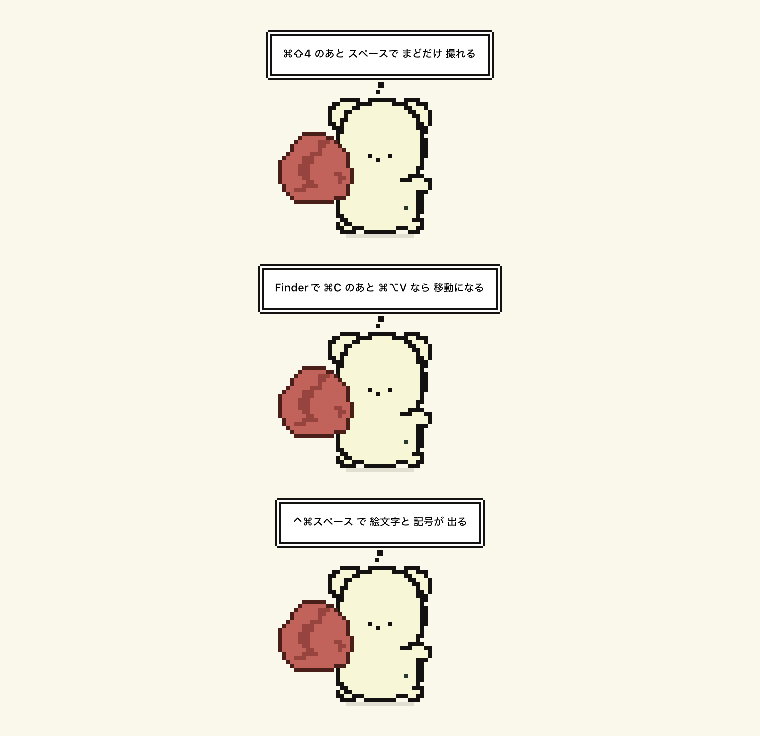
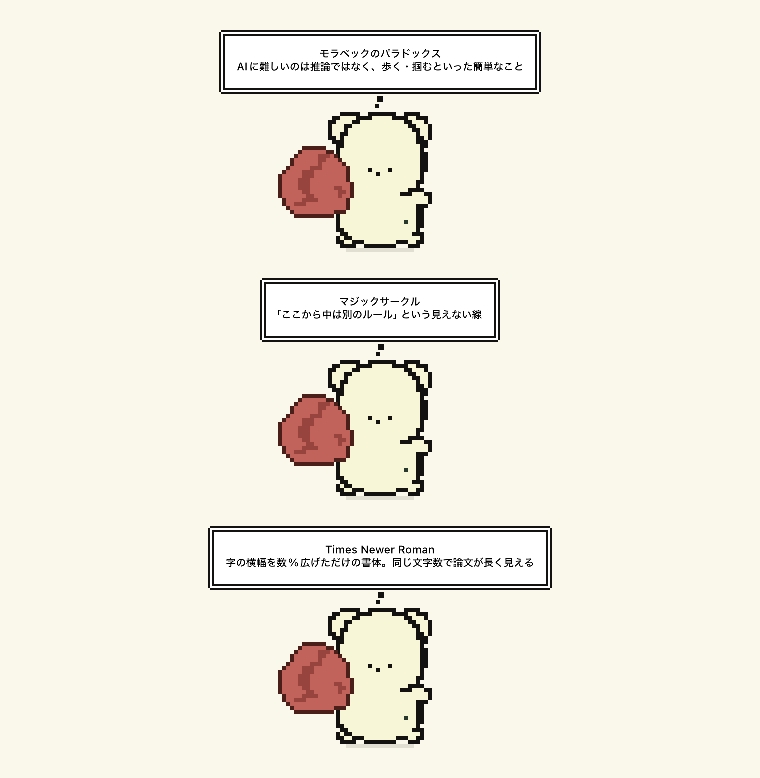
feat(kosukumakun): 豆知識の水準を上げ、2行にして「ひっくり返した話」を足す
「へえ」で終わる小ネタから、**そのまま人に話せる話**へ。131件 → 188件。

- **1件を「見出し ＋ 説明」の2行**にした。見出しで「なにそれ」と思わせ、
  次の行で腑に落ちる形。1行にまとめると、どこまでが用語なのか読めなかった。
  吹き出しの折り返しは、**本文の改行をいちばん強く**扱うようにした（`Thought.wrap`）。
  字数が増えたので表示は 8.5秒 → 10秒。
- **世界（30→42）**: AIと仕事の議論に効く言葉を軸にした。モラベック／ポランニーの
  パラドックス、ジェヴォンズ、エンゲルの休止、ソロー、ボーモルのコスト病、
  ケインズが1930年に書いた週15時間。生きものの話も残したが、全部2行に書き直して
  「なぜそうなのか」まで入れた。
- **あそび（30→40）**: 遊びを息抜きの側に置かない。カイヨワの4分類、マジックサークル、
  ディープ・プレイ、有限と無限のゲーム。作った側は ルーディック・デザインと
  ドリフト・テーブル。光と音は100年前まで遡る（ルミア／クラビラックス／
  オキュラー・ハープシコード／ドリーム・マシン／ガンツフェルト）。
- **ひっくり返した話（新設・35件）**: 当たり前を一度ばらして見せた仕事。
  区分は4つ → 5つになった（`Thought.speakBig`）。

**書くときの決めごとを WorldTips.swift の先頭に残した。** 説明は40字まで、盛らない、
有名すぎるものは入れない、年号と金額ははっきりしているものだけ。
こすくまくんが言うと本当のことに聞こえてしまうので、ここは厳しくする。

サイトの見本も、区分ごとに1つずつの2行の絵に差し替えた。

diff --git a/kosukumakun/mac/Sources/Kosukumakun/WorldTips.swift b/kosukumakun/mac/Sources/Kosukumakun/WorldTips.swift
@@ -1,41 +1,73 @@
 import Foundation
 
+/// 豆知識の書きかた（World / Play / Flip 共通の決めごと）
+///
+/// **1件は「見出し ＋ 説明」の2行**。`\n` で分ける。
+/// 見出しだけ見て「なにそれ」と思わせ、次の行で腑に落ちる形にする。
+/// 1行にまとめると、どこまでが用語なのか読めなくなった。
+///
+/// 説明は **40字まで**。吹き出しは自動で折り返すが、3行になると
+/// 読む前に消える（表示は10秒）。
+///
+/// 事実だけを書く。**盛らない。** こすくまくんが言うと本当のことに聞こえてしまうので、
+/// 曖昧なものは入れない。年号や金額は、はっきりしているものだけ書く。
+///
 /// 世界の豆知識。
-/// 「へえ」で終わらず、**人に話したくなるもの** を選んである。
+/// 「へえ」で終わらず、**人に話したくなるもの**。
+/// 生きものの話と、世の中の仕組みを言い当てた言葉を混ぜてある。
 enum WorldTips {
-    static let seconds: CGFloat = 8.5
+    static let seconds: CGFloat = 10
 
     static let all: [String] = [
-        "ハチミツは腐らない。水分が少なくて酸性だから",
-        "タコの心臓は3つある",
-        "ラクダのこぶに入っているのは水ではなく脂肪",
-        "バナナは木ではなく草にできる実",
-        "カンガルーは後ろ向きに歩けない",
-        "ペンギンにもちゃんと膝がある",
-        "猫は甘みをほとんど感じない",
-        "氷が水に浮くのは かなり珍しい性質",
-        "月の足跡は風がないので今も残っている",
-        "エベレストは今も少しずつ高くなっている",
-        "フィンランドには湖が18万以上ある",
-        "南極の氷は場所によって3km以上ぶ厚い",
-        "深海には自分で光る生きものがたくさんいる",
-        "砂漠は昼は暑いのに夜はしっかり冷える",
-        "木は地面の下で菌を通してつながっている",
-        "ハチには紫外線が見えていて 花の模様が違って見える",
-        "人の骨は赤ちゃんの時のほうが数が多い",
-        "まばたきは1日に1万回以上している",
-        "地球の1日は ほんの少しずつ長くなっている",
-        "海が塩からいのは 陸から溶け出したものが溜まったから",
-        "コーヒーの実は 熟すと赤くなる",
-        "チョコレートの原料のカカオは 実ではなく種",
-        "北欧では夏に 日が沈まない時期がある",
-        "雷は同じ場所に何度でも落ちる",
-        "世界一短い定期便の飛行時間は 2分ほど",
-        "salary（給料）の語源は 塩と言われている",
-        "パンダは1日の半分以上を食べることに使う",
-        "ラッコは眠る時 流されないよう手をつなぐことがある",
-        "キリンの首の骨の数は 人間と同じ7個",
-        "サメには骨がなく 全身が軟骨でできている",
+        // --- 人とAIと仕事 ----------------------------------------------------
+        "モラベックのパラドックス\nAIに難しいのは推論ではなく、歩く・掴むといった簡単なこと",
+        "ポランニーのパラドックス\n人は語れる以上のことを知っている。言葉にできない技は真似しにくい",
+        "ジェヴォンズのパラドックス\n効率が上がると消費はむしろ増える。空いた時間はまた埋まる",
+        "労働塊の誤謬\n「仕事の総量は決まっている」という思い込み。仕事は増えも減りもする",
+        "エンゲルの休止\n産業革命の初期、生産性は上がったのに賃金は数十年上がらなかった",
+        "ソローのパラドックス\nコンピュータは、生産性の統計以外のあらゆる場所で見かける",
+        "ボーモルのコスト病\n弦楽四重奏の生産性は300年変わらない。それでも人件費だけ上がる",
+        "アマラの法則\n新しい技術は、短期では大げさに、長期では控えめに見積もられる",
+        "ケインズ『孫たちの経済的可能性』\n1930年に、100年後は週15時間働けば足りると書いた",
+        "パーキンソンの法則\n仕事は、与えられた時間いっぱいまで膨らむ",
+
+        // --- 仕組みを言い当てた言葉 -------------------------------------------
+        "グッドハートの法則\n指標が目標になった瞬間、その指標は指標として使えなくなる",
+        "チェスタトンの垣根\nなぜあるか分からない垣根は、理由が分かるまで壊さないほうがいい",
+        "コンウェイの法則\n組織の形が、そのまま作られるものの形になる",
+        "ブルックスの法則\n遅れているプロジェクトに人を足すと、もっと遅れる",
+        "ハイラムの法則\n利用者が十分に多ければ、仕様書に無い挙動も誰かが頼りにしている",
+        "リンディ効果\n古くから残っているものほど、これから先も長く残りやすい",
+        "ハンロンの剃刀\n悪意で説明できることも、たいていは うっかりで足りる",
+        "シェリング・ポイント\n相談できないとき、人が自然に選ぶ待ち合わせ場所というものがある",
+        "オーバートンの窓\n「言ってもいいこと」の範囲は動く。動かすのは論破ではなく反復",
+        "満足化（サティスファイシング）\n人は最良ではなく「これで十分」を選ぶ。それが賢いこともある",
+        "カーゴ・カルト\n形だけ真似ても中身は来ない。滑走路を作っても飛行機は降りてこない",
+
+        // --- 頭のなかで起きていること -----------------------------------------
+        "ツァイガルニク効果\n人は終わったことより、途中で止めたことのほうをよく覚えている",
+        "フォン・レストルフ効果\n並んでいるものの中で、ひとつだけ違うものが記憶に残る",
+        "ピークエンドの法則\n体験の印象は、いちばん強い瞬間と終わり方でほぼ決まる",
+        "IKEA効果\n自分で組み立てたものは、実際の出来より高く感じる",
+        "マガーク効果\n口の動きを見ると、聞こえている音そのものが変わる",
+        "カクテルパーティー効果\nざわめきの中でも、自分の名前だけは聞こえてしまう",
+        "パレイドリア\n壁のしみが顔に見える。人の脳は顔を探しすぎる",
+        "アポフェニア\n意味のないものに意味を見つけてしまう働き。パレイドリアはその視覚版",
+        "プルースト効果\nにおいは記憶に直結する。視覚より古い経路を通っているから",
+        "ダンバー数\n安定して付き合える相手は150人くらいが上限、という説",
+        "共感覚\n音に色が見える人がいる。文字や曜日に色が付いて見える人もいる",
+
+        // --- 生きものと地球 ---------------------------------------------------
+        "ハチミツは腐らない\n水分が少なくて酸性だから。何千年も前のものが見つかっている",
+        "キリンの首の骨は7個\n人間と同じ数。1個ずつがとても長い",
+        "タコの心臓は3つある\nうち2つはえら専用。泳ぐと心臓がひとつ止まる",
+        "木は地面の下でつながっている\n根に付いた菌の網を通して、養分や合図をやりとりしている",
+        "深海には自分で光る生きものが多い\n暗い場所では、光ることのほうが目立たない手段になる",
+        "月の足跡は今も残っている\n風が吹かないので、消すものが何もない",
+        "氷が水に浮くのは珍しい性質\nたいていの物質は、固まると重くなって沈む",
+        "ハチには紫外線が見えている\nぼくらに無地に見える花に、蜜へ導く模様が入っている",
+        "サメには骨がない\n全身が軟骨。だから化石で残るのは たいてい歯だけ",
+        "地球の1日は少しずつ長くなっている\n月に引かれて自転が遅くなっている。1世紀で数ミリ秒ずつ",
     ]
 
     static func pick(avoiding recent: [String]) -> String {
@@ -44,42 +76,61 @@ enum WorldTips {
     }
 }
 
-/// あそびの豆知識。**大人が読んで、今夜ためせるもの**。
-/// 子ども向けの遊びではなく、休みの日や仕事終わりの手が届く範囲のこと。
+/// あそびの豆知識。
+///
+/// **遊びを「息抜き」の側に置かない。** 遊びは文化のほうが後から来る、と言った人がいる。
+/// 遊びを考えた人の言葉と、遊びを作った人の仕事と、今夜ためせることを混ぜてある。
 enum PlayTips {
-    static let seconds: CGFloat = 8.5
+    static let seconds: CGFloat = 10
 
     static let all: [String] = [
-        "散歩は行き先を決めないほうが よく見つかる",
-        "各駅停車のほうが 窓の外はおもしろい",
-        "図書館は 本を借りなくても居ていい場所",
-        "美術館は1点だけ見て帰っても いい",
-        "地図を見ずに歩くと 道を覚える",
-        "手紙は 自分宛にも出せる",
-        "銭湯は お湯の温度が店ごとに違う",
-        "サウナの「ととのう」は 温冷を繰り返すと来る",
-        "焚き火は 見ているだけで時間が溶ける",
-        "星は都会でも案外見える。見上げていないだけ",
-        "使い切りカメラは 今でも売っている",
-        "喫茶店のモーニングは 地域でぜんぜん違う",
-        "レコードは 片面ずつしか聴けないのが いい",
-        "万年筆は インクを変えると気分が変わる",
-        "ジグソーパズルは 外枠から作ると早い",
-        "コーヒーは お湯の温度で味が変わる",
-        "植物は 名前を知ったとたん目に入るようになる",
-        "古本には 前の持ち主の線が残っていることがある",
-        "ラジオは 手を動かす作業と相性がいい",
-        "ひとりカラオケは わりと真面目な練習になる",
-        "折り紙の鶴は 正方形さえあれば折れる",
-        "じゃんけんは 地域で手の形が少し違う",
-        "しりとりには 土地ごとの追加ルールがある",
-        "トランプの絵札には モデルがいるという説がある",
-        "ボードゲームは 2人でも成立するものが多い",
-        "料理は 洗い物が減る順番というのがある",
-        "寄り道は 行きより帰りのほうが安全",
-        "自転車は 少し遠回りするほうが気持ちいい",
-        "銭湯帰りの コーヒー牛乳は理にかなっている",
-        "積み木は 大人がやると意外とむずかしい",
+        // --- 遊びを考えた人たち -----------------------------------------------
+        "イリンクス（眩暈）\nカイヨワの遊びの4分類のひとつ。わざと目を回すのも遊びのうち",
+        "アゴン・アレア・ミミクリ・イリンクス\n競争・偶然・模倣・眩暈。遊びはこの4つでできている",
+        "パイディアとルドゥス\n同じ遊びでも、混沌のままのものと、規則で締めたものがある",
+        "マジックサークル\n「ここから中は別のルール」という見えない線。遊びの本体はこの線引き",
+        "ディープ・プレイ\n賭けが大きすぎて割に合わない賭け。それでも人はやる、と言われた",
+        "オートテリック\n目的が自分の外に無い行為。それ自体が報酬になっている状態",
+        "有限のゲームと無限のゲーム\n勝つために遊ぶのが有限。遊び続けるために遊ぶのが無限",
+        "ダーク・プレイ\n相手が「遊びだと気づいていない」遊び。演劇研究の用語",
+        "ルドナラティブ・ディソナンス\n物語と操作感が食い違う現象。2007年にゲーム評から生まれた言葉",
+        "バートルの4分類\n遊ぶ人は 達成者・探検家・社交家・攻撃者に分かれるという説",
+        "サードプレイス\n家でも職場でもない第三の居場所。喫茶店も銭湯も、これがあると街が続く",
+
+        // --- 遊びを作った人たち -----------------------------------------------
+        "ルーディック・デザイン\n用のない道具を真面目に作る設計。役に立たないことを目的にする",
+        "ドリフト・テーブル\n物を載せると、その重さで上空の航空写真がゆっくり流れる家具",
+        "カルチュラル・プローブ\n調査票の代わりに、使い捨てカメラや絵葉書を渡して暮らしを覗く手法",
+        "クリティカル・デザイン\n売るためではなく、問いを立てるために作る製品。答えは出さない",
+        "デザイン・フィクション\nまだ無い未来の道具を先に作り、その世界のほうを想像させる",
+        "Can You See Me Now?\n街を走る実在の人を、オンラインの人が追う鬼ごっこ。2001年",
+        "Remote X\n50人が同じ音声を聴いて街を歩く。観客の群れ自体が作品になる",
+        "In the Eyes of the Animal\n蚊やトンボの目で森を見る作品。人の視野のほうが特殊だと分かる",
+
+        // --- 光と音の、ずっと前の話 -------------------------------------------
+        "ルミア\n音のない、光だけの芸術。100年前に確立されて、演奏する楽器まであった",
+        "クラビラックス\nルミアを演奏するための鍵盤楽器。弾くと光が動く",
+        "オキュラー・ハープシコード\n300年前に構想された、色を弾く鍵盤。人はずっと音と色をつなげたがる",
+        "ドリーム・マシン\n閉じたまぶたの内側に模様を見せる回転筒。目を閉じて見る作品",
+        "ガンツフェルト\n視界を一様な色で埋めると、脳が勝手に像を作りはじめる",
+        "フォスフェン\nまぶたを押すと見える光。目に入っていない光を見ている状態",
+        "オーディオ・ウォーク\nイヤホンの声に導かれて街を歩く作品。録音と現実がずれていく",
+
+        // --- 今夜ためせること -------------------------------------------------
+        "散歩は行き先を決めないほうがいい\n目的地があると、道は移動になってしまう",
+        "各駅停車のほうが窓の外はおもしろい\n速さを捨てると、見えるものが増える",
+        "図書館は本を借りなくても居ていい\n貸出は機能のひとつで、条件ではない",
+        "美術館は1点だけ見て帰っていい\n全部見ると、どれも覚えていない",
+        "地図を見ずに歩くと道を覚える\n迷う手間が、そのまま地図になる",
+        "焚き火は見ているだけで時間が溶ける\n形が二度と同じにならないものを、人は見飽きない",
+        "星は都会でも案外見える\n見えないのではなく、見上げていないだけ",
+        "手紙は自分宛にも出せる\n書いた時の自分から、届いた時の自分へ",
+        "ひとりカラオケはわりと真面目な練習になる\n聴かれないと、はじめて自分の声が聞こえる",
+        "レコードは片面ずつしか聴けないのがいい\n止まる仕組みが入っていると、聴き方が変わる",
+        "使い切りカメラは今でも売っている\n撮った直後に確認できないほうが、よく見て撮る",
+        "銭湯はお湯の温度が店ごとに違う\n1度の違いで、居られる時間がまるで変わる",
+        "植物は名前を知ると目に入るようになる\n見えていなかったのではなく、区別していなかっただけ",
+        "古本には前の持ち主の線が残っている\nどこで唸ったのかが分かる。二人で読んでいることになる",
     ]
 
     static func pick(avoiding recent: [String]) -> String {

diff --git a/kosukumakun/mac/Sources/Kosukumakun/FlipTips.swift b/kosukumakun/mac/Sources/Kosukumakun/FlipTips.swift
@@ -1,0 +1,63 @@
+import Foundation
+
+/// ひっくり返した話。
+///
+/// **当たり前を一度ばらして見せた仕事**を集める。こす.くまの本業と同じ側の話。
+/// 「すごい」で終わらせず、**どこをひっくり返したのか**が1行で分かるように書く。
+///
+/// 書きかたは WorldTips.swift の決めごとに従う（見出し＋説明の2行、説明は40字まで）。
+/// **有名すぎるものは入れない。** 社内で名前が出たことのあるものは、ここでは出さない。
+/// 金額や年号は、はっきりしているものだけ書く。
+enum FlipTips {
+    static let seconds: CGFloat = 10
+
+    static let all: [String] = [
+        // --- 道具のふりをした問い -------------------------------------------
+        "Times Newer Roman\n字の横幅を数%広げただけの書体。同じ文字数で論文が長く見える",
+        "Museum of Forgeries\n本物1点に偽物999点を混ぜ、どれが本物か分からなくして同じ値で売った",
+        "Severed Spots\n点が並んだ絵を1点ずつ切り離して売った。全部売れると元の絵は消える",
+        "Tax Heaven 3000\n遊ぶと確定申告の書類ができあがる恋愛シミュレーション",
+        "Newstweek\n壁のコンセントに挿すと、その店のWi-Fi越しにニュースの文面を書き換えられる",
+        "Dead Drops\nUSBメモリを街の壁に埋めてセメントで固める。ネットを通らない共有網",
+        "The Great Bear\nロンドン地下鉄の路線図の駅名を、全部 哲学者や俳優に置き換えた一枚",
+        "珍道具\n「役に立ってはいけない」を含む十の掟を持つ発明の流派。日本で生まれた",
+        "Obvious Plant\n実在しない商品を作って、こっそり店の棚に置いてくるアーティスト",
+
+        // --- 買う・売るをばらす ----------------------------------------------
+        "Io Sono\n見えない彫刻が2021年に約200万円で売れた。買ったのは「在る」という合意",
+        "K Foundation Burn a Million Quid\n音楽家が1億円ぶんの現金を島で燃やした。売らないことで作品にした",
+        "Holiday Hole\n買い物の日に寄付を募り、ただ穴を掘り続けた。何も作らないことに金が集まった",
+        "The Million Dollar Homepage\n1ピクセル1ドルで100万ピクセル売った学生。2005年に完売した",
+        "ポテトサラダのクラウドファンディング\n10ドルの目標に5万ドル以上が集まった。作るのはポテトサラダだけ",
+        "Bitchcoin\n作品そのものを裏づけにした通貨。2015年、暗号通貨の流行より前に出た",
+        "Free Beer\nレシピを公開して誰でも作れるようにしたビール。オープンソースを飲み物でやった",
+
+        // --- 展示のかたちをばらす --------------------------------------------
+        "Museum of Broken Relationships\n別れた人が置いていった品だけを集めた美術館。説明文は元の持ち主が書く",
+        "Museum of Failure\n失敗した商品ばかりを並べる博物館。成功例より学べるものが多いという立場",
+        "関係性の美学\n作品は物ではなく、その場に生まれる人の関わりのほうだ、という考え方",
+        "ギャラリーで料理を出した作品\n展示室でタイカレーを作って配った。残るのは匂いと会話だけ",
+        "飴の山\n観客が持ち帰ると減っていく彫刻。減った重さが、そのまま失われたものを表す",
+        "物を残さない作品\n記録も写真も契約書も残さないと決めた作家がいる。口約束だけで売買される",
+        "I Am Still Alive\n「私はまだ生きている」とだけ打った電報を、何年も送り続けた作家",
+        "数を書き続けた画家\n1から順に数字を描き、そのたび地の色を少し白くした。生涯やめなかった",
+
+        // --- 街と制度をばらす -------------------------------------------------
+        "漂流（デリーヴ）\n目的地を持たず、街の引力に任せて歩く方法。都市を読み直すために考えられた",
+        "心理地理学\n街の場所ごとに気分がどう動くかを地図にする試み。地形ではなく感じを描く",
+        "détournement（転用）\n既にあるものの意味を横取りして作り変える手口。広告の書き換えの祖先",
+        "サブバタイジング\n広告の体裁のまま中身だけ入れ替える。同じ枠に別のことを言わせる",
+        "ピアノ階段\n階段を鍵盤にしたら、エスカレーターより使われるようになった実験",
+        "アドバーサリアル・デザイン\nもめごとを起こすために作るデザイン。合意ではなく議論を目的にする",
+        "凍りついた駅\n数百人が同時に数分間、駅で完全に静止した。何も説明しないまま解散する",
+        "手紙の宛名の実験\n判読できない絵や暗号で宛名を書いて出したら、ほとんど届いてしまった",
+        "都市伝説を仕込む作家\nバズる場面をあらかじめ作って街に流す。作品は撮られた動画のほうになる",
+        "船の名前を一般投票にした話\n研究船の名に票が集まりすぎて、投票の1位は採用されなかった",
+        "イグ・ノーベル賞\n人を笑わせ、そのあと考えさせる研究に贈られる。本物の研究しか対象にならない",
+    ]
+
+    static func pick(avoiding recent: [String]) -> String {
+        let fresh = all.filter { !recent.contains($0) }
+        return (fresh.isEmpty ? all : fresh).randomElement() ?? all[0]
+    }
+}

diff --git a/kosukumakun/src/app/page.tsx b/kosukumakun/src/app/page.tsx
@@ -19,12 +19,14 @@ const FEATURES = [
   { s: "think",   t: "ときどき 心の声がもれる",    b: "口がないので しゃべりません。豆知識も この形で伝えます。" },
 ];
 
-/* 豆知識。4種類を順番に回して出す。ここではその内訳と、実際の出方を見せる。 */
+/* 豆知識。5種類を順番に回して出す。ここではその内訳と、実際の出方を見せる。
+   世界・あそび・ひっくり返した話は「見出し ＋ 説明」の2行で書いてある。 */
 const TIP_KINDS = [
-  { k: "パソコンの豆知識", n: 41, e: "⌘⇧4 のあと スペースを押すと ウィンドウだけ撮れる" },
-  { k: "世界の豆知識",     n: 30, e: "キリンの首の骨の数は 人間と同じ7個" },
-  { k: "あそびの豆知識",   n: 30, e: "図書館は 本を借りなくても居ていい場所" },
-  { k: "ひとこと",         n: 30, e: "いつも がんばってて えらい" },
+  { k: "パソコンの豆知識",   n: 41, e: "⌘⇧4 のあと スペースを押すと ウィンドウだけ撮れる" },
+  { k: "世界の豆知識",       n: 42, e: "ジェヴォンズのパラドックス — 効率が上がると消費はむしろ増える" },
+  { k: "あそびの豆知識",     n: 40, e: "マジックサークル — 「ここから中は別のルール」という見えない線" },
+  { k: "ひっくり返した話",   n: 35, e: "Times Newer Roman — 字幅を数%広げただけで論文が長く見える書体" },
+  { k: "ひとこと",           n: 30, e: "いつも がんばってて えらい" },
 ];
 
 const STEPS = [
@@ -138,8 +140,9 @@ export default function Page() {
         <p className="sec-no">02</p>
         <h2 className="mt-3 text-[30px] font-bold tracking-tight">ときどき 教えてくれます</h2>
         <p className="mt-2 max-w-[520px] text-[14px]" style={{ color: "var(--muted)" }}>
-          4種類を順番に。12〜25分に1回くらい、手が止まっているときだけ出ます。
+          5種類を順番に。12〜25分に1回くらい、手が止まっているときだけ出ます。
           打っている最中には出しません。こすくまくんを つづけて2回タップすると、その場でも見られます。
+          「へえ」で終わらないものを選んでいるので、そのまま人に話せます。
         </p>
 
         <div className="mt-12 grid items-start gap-x-12 gap-y-10 md:grid-cols-[1fr_1fr]">
@@ -160,7 +163,7 @@ export default function Page() {
             src="/shots/tips.png"
             alt=""
             width={760}
-            height={706}
+            height={778}
             className="w-full rounded-lg"
             style={{ border: "1px solid var(--line)", imageRendering: "pixelated" }}
           />

diff --git a/kosukumakun/mac/Sources/Kosukumakun/Thought.swift b/kosukumakun/mac/Sources/Kosukumakun/Thought.swift
@@ -221,6 +221,12 @@ final class ThoughtBehavior: PetBehavior {
 
     /// 空白で折る。1語で入りきらない時はそのまま出す（欠けさせない）。
     private func wrap(_ s: String, maxPt: CGFloat, attrs: [NSAttributedString.Key: Any]) -> [String] {
+        // **本文の改行がいちばん強い。** 豆知識は「用語 → 説明」の2行で書いてあるので、
+        // ここで勝手につないでしまうと、どこまでが用語なのか読めなくなる。
+        if s.contains("\n") {
+            return s.split(separator: "\n", omittingEmptySubsequences: false)
+                .flatMap { wrap(String($0), maxPt: maxPt, attrs: attrs) }
+        }
         let words = s.split(separator: " ", omittingEmptySubsequences: true).map(String.init)
         guard words.count > 1 else { return [s] }
         var lines: [String] = []
@@ -277,9 +283,10 @@ final class ThoughtBehavior: PetBehavior {
         nextTip = CGFloat.random(in: 720...1500)     // 手動で出したぶん、次は先送り
     }
 
-    /// 大きい枠で ひとつ出す。パソコン → ひとこと → 世界 → あそび の順で回る。
+    /// 大きい枠で ひとつ出す。
+    /// パソコン → ひとこと → 世界 → あそび → ひっくり返した話 の順で回る。
     private func speakBig(_ brain: Brain) {
-        bigTurn = (bigTurn + 1) % 4
+        bigTurn = (bigTurn + 1) % 5
         let text: String
         switch bigTurn {
         case 0:
@@ -292,9 +299,12 @@ final class ThoughtBehavior: PetBehavior {
         case 2:
             text = WorldTips.pick(avoiding: recentTips)
             brain.think(text, seconds: WorldTips.seconds, big: true)
-        default:
+        case 3:
             text = PlayTips.pick(avoiding: recentTips)
             brain.think(text, seconds: PlayTips.seconds, big: true)
+        default:
+            text = FlipTips.pick(avoiding: recentTips)
+            brain.think(text, seconds: FlipTips.seconds, big: true)
         }
         recentTips.append(text)
         if recentTips.count > 12 { recentTips.removeFirst() }

diff --git a/kosukumakun/mac/Sources/Kosukumakun/Snapshot.swift b/kosukumakun/mac/Sources/Kosukumakun/Snapshot.swift
@@ -236,9 +236,10 @@ enum Snapshot {
         FileHandle.standardOutput.write("  fx2_pull1..4\n".data(using: .utf8)!)
 
         // 豆知識（大きい字）も焼いてみる
-        for (i, tip) in ["⌘⇧4 のあと スペースで まどだけ 撮れる",
-                         "Finderで ⌘C のあと ⌘⌥V なら 移動になる",
-                         "⌃⌘スペース で 絵文字と 記号が 出る"].enumerated() {
+        // 見本は **区分ごとに1つずつ**。書きぶり（見出し＋説明の2行）が伝わるように選ぶ。
+        for (i, tip) in ["モラベックのパラドックス\nAIに難しいのは推論ではなく、歩く・掴むといった簡単なこと",
+                         "マジックサークル\n「ここから中は別のルール」という見えない線",
+                         "Times Newer Roman\n字の横幅を数%広げただけの書体。同じ文字数で論文が長く見える"].enumerated() {
             var f = PetFrame()
             f.pixelScale = 4
             f.foot = CGPoint(x: size.width / 2, y: 34)
